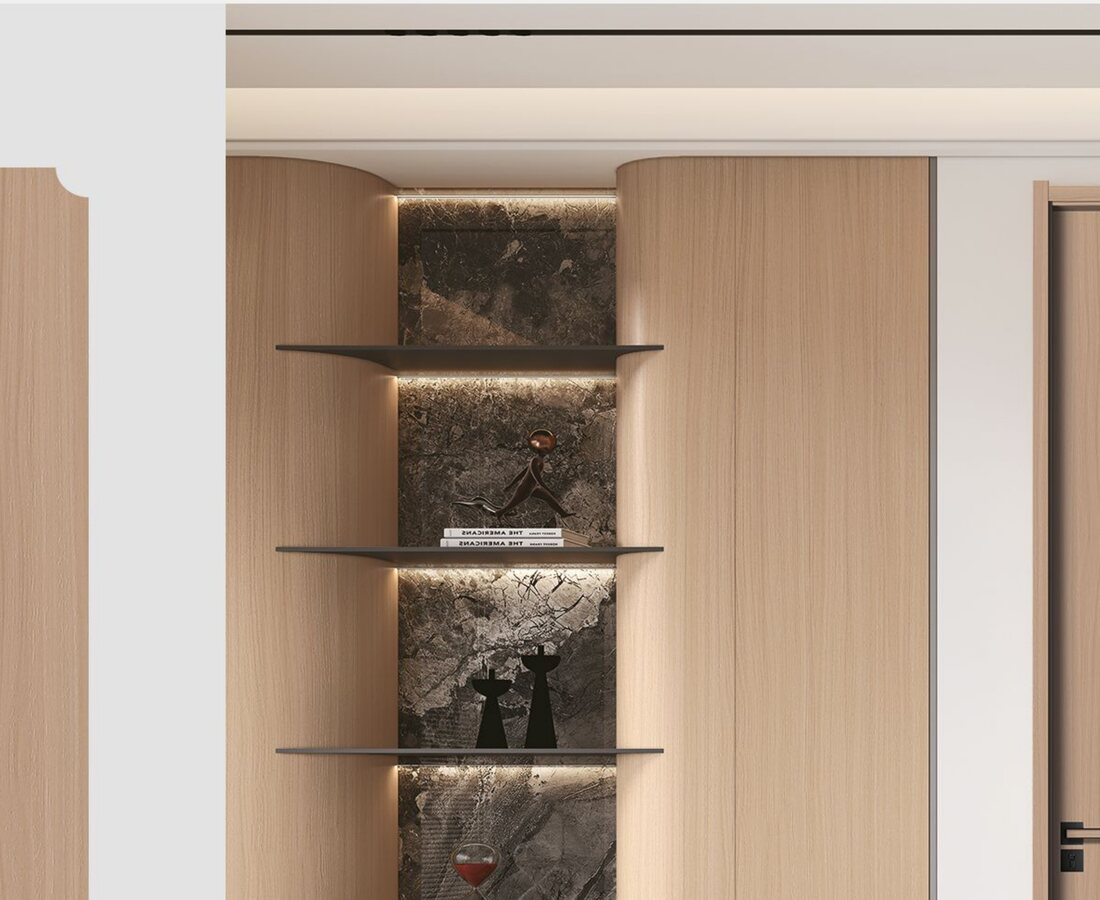
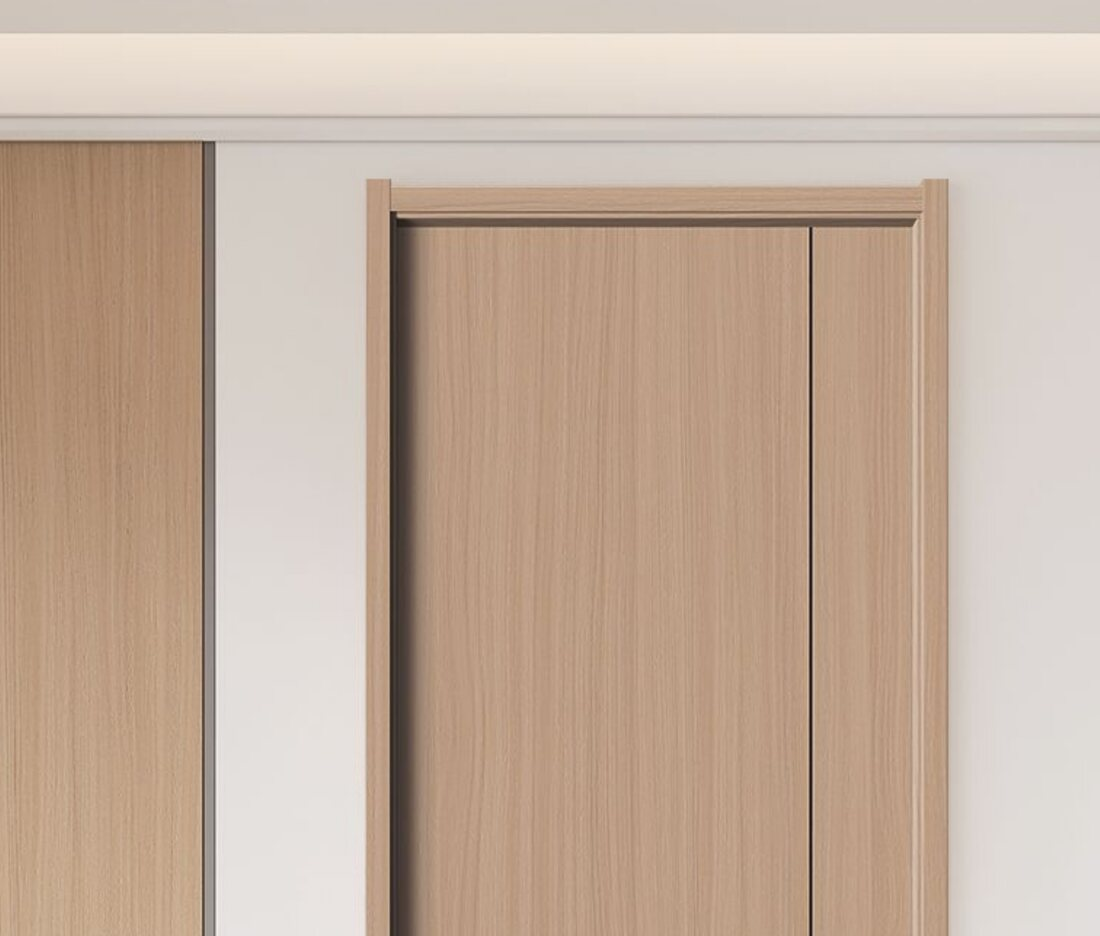
Interior doors: fold all finishes into one Collections grid; drop the separate premium section; re-crop Athens door-forward

diff --git a/interior-doors/index.html b/interior-doors/index.html
@@ -1,2 +1,2 @@
 <!DOCTYPE html><html lang="en"> <head><meta charset="UTF-8"><meta name="viewport" content="width=device-width, initial-scale=1"><title>Interior Doors — Luxova Home</title><meta name="description" content="Luxova Home — ready-to-assemble kitchen, bedroom storage and wardrobe cabinetry, made to your measure."><link rel="icon" href="/logo.jpg"><link rel="preconnect" href="https://fonts.googleapis.com"><link rel="preconnect" href="https://fonts.gstatic.com" crossorigin><link href="https://fonts.googleapis.com/css2?family=Fraunces:ital,opsz,wght@0,9..144,400;0,9..144,500;0,9..144,600;1,9..144,400&family=Hanken+Grotesk:wght@400;500;600;700&display=swap" rel="stylesheet"><link rel="stylesheet" href="/_astro/accessories.CYrSsuJB.css">
-<link rel="stylesheet" href="/_astro/interior-doors.Br0k4dYA.css"></head> <body> <nav class="nav"> <a class="brand" href="/"><img src="/logo-white.svg" alt="Luxova Home"></a> <div class="links"> <a class="" href="/c/kitchen-cabinets">Kitchen</a> <a class="" href="/c/bathroom-vanities">Bathroom Vanities</a> <a class="" href="/c/closets-wardrobes">Closet &amp; Wardrobes</a> <a class="" href="/door-styles">Cabinet Doors</a> <a class="" href="/interior-doors">Interior Doors</a> <a class="" href="/accessories">Accessories</a> <a class="" href="/member">Members</a> </div> <div class="actions"> <a class="btn-line" href="/contact">Get a price estimate</a> </div> </nav> <main> <section class="id-hero" data-astro-cid-d5el6o5c> <div class="wrap" data-astro-cid-d5el6o5c> <span class="eyebrow" data-astro-cid-d5el6o5c>Beyond the kitchen · room doors</span> <h1 data-astro-cid-d5el6o5c>Interior doors,<br data-astro-cid-d5el6o5c><em data-astro-cid-d5el6o5c>made to match.</em></h1> <p data-astro-cid-d5el6o5c>Modern flush room doors in a high-end PET wood finish — measured, made and fitted to your home, in colours and woodgrains that sit seamlessly with your cabinetry.</p> <div class="id-hero-cta" data-astro-cid-d5el6o5c> <a class="btn" href="/contact" data-astro-cid-d5el6o5c>Ask about interior doors <span class="arr" data-astro-cid-d5el6o5c>→</span></a> <a class="btn btn-ghost" href="#collections" data-astro-cid-d5el6o5c>See the collections <span class="arr" data-astro-cid-d5el6o5c>↓</span></a> </div> </div> </section>  <section class="wrap id-why" data-astro-cid-d5el6o5c> <div class="sec-head" data-astro-cid-d5el6o5c><div data-astro-cid-d5el6o5c><span class="eyebrow" data-astro-cid-d5el6o5c>Why the PET wood door</span><h2 data-astro-cid-d5el6o5c>Built to last, soft to live with</h2></div> <p class="head-note" data-astro-cid-d5el6o5c>A food-grade surface on a waterproof multilayer core — the look of timber, without the upkeep.</p> </div> <div class="why-grid" data-astro-cid-d5el6o5c> <div class="why-item" data-astro-cid-d5el6o5c> <span class="why-n" data-astro-cid-d5el6o5c>01</span> <h3 data-astro-cid-d5el6o5c>Food-grade PET finish</h3> <p data-astro-cid-d5el6o5c>A safe, environmentally friendly surface that is stable, acid- and corrosion-resistant, soft to the touch and wipes clean.</p> </div><div class="why-item" data-astro-cid-d5el6o5c> <span class="why-n" data-astro-cid-d5el6o5c>02</span> <h3 data-astro-cid-d5el6o5c>Multilayer waterproof core</h3> <p data-astro-cid-d5el6o5c>High-compression multilayer board that resists deformation and cracking, with superior waterproof performance.</p> </div><div class="why-item" data-astro-cid-d5el6o5c> <span class="why-n" data-astro-cid-d5el6o5c>03</span> <h3 data-astro-cid-d5el6o5c>Concealed soft hardware</h3> <p data-astro-cid-d5el6o5c>Hidden hinges and a quiet, soft-close action, with a flush concealed frame for clean 90° reveals.</p> </div><div class="why-item" data-astro-cid-d5el6o5c> <span class="why-n" data-astro-cid-d5el6o5c>04</span> <h3 data-astro-cid-d5el6o5c>Finishes that match</h3> <p data-astro-cid-d5el6o5c>Door colours and woodgrains chosen to sit seamlessly with your Luxova cabinetry and wardrobes.</p> </div> </div> </section>  <section id="collections" class="wrap id-coll" data-astro-cid-d5el6o5c> <div class="sec-head" data-astro-cid-d5el6o5c><div data-astro-cid-d5el6o5c><span class="eyebrow" data-astro-cid-d5el6o5c>Collections</span><h2 data-astro-cid-d5el6o5c>Our door finishes</h2></div> <p class="head-note" data-astro-cid-d5el6o5c>From bright white to deep woodgrain — each made to measure for your openings.</p> </div> <div class="coll-grid" data-astro-cid-d5el6o5c> <article class="coll-card" data-astro-cid-d5el6o5c> <div class="coll-img " data-astro-cid-d5el6o5c><img src="/interior-doors/crystal-white.jpg" alt="Crystal White interior door" loading="lazy" data-astro-cid-d5el6o5c></div> <div class="coll-meta" data-astro-cid-d5el6o5c> <h3 data-astro-cid-d5el6o5c>Crystal White</h3> <p data-astro-cid-d5el6o5c>A bright, flush white door with a slim recessed reveal — clean and contemporary in any room.</p> <p class="coll-fin" data-astro-cid-d5el6o5c>Matte white · slim-line</p> </div> </article><article class="coll-card" data-astro-cid-d5el6o5c> <div class="coll-img " data-astro-cid-d5el6o5c><img src="/interior-doors/baikal-white.jpg" alt="Baikal Frost interior door" loading="lazy" data-astro-cid-d5el6o5c></div> <div class="coll-meta" data-astro-cid-d5el6o5c> <h3 data-astro-cid-d5el6o5c>Baikal Frost</h3> <p data-astro-cid-d5el6o5c>Soft off-white with a single vertical groove — the quiet, minimal choice that suits everything.</p> <p class="coll-fin" data-astro-cid-d5el6o5c>Warm white · single reveal</p> </div> </article><article class="coll-card" data-astro-cid-d5el6o5c> <div class="coll-img " data-astro-cid-d5el6o5c><img src="/interior-doors/finland-cloud.jpg" alt="Finland Cloud interior door" loading="lazy" data-astro-cid-d5el6o5c></div> <div class="coll-meta" data-astro-cid-d5el6o5c> <h3 data-astro-cid-d5el6o5c>Finland Cloud</h3> <p data-astro-cid-d5el6o5c>A greige finish with a fine inlay line — calm, warm and easy to live with.</p> <p class="coll-fin" data-astro-cid-d5el6o5c>Greige · inlay detail</p> </div> </article><article class="coll-card" data-astro-cid-d5el6o5c> <div class="coll-img " data-astro-cid-d5el6o5c><img src="/interior-doors/cocoa-oak.jpg" alt="Cocoa Oak interior door" loading="lazy" data-astro-cid-d5el6o5c></div> <div class="coll-meta" data-astro-cid-d5el6o5c> <h3 data-astro-cid-d5el6o5c>Cocoa Oak</h3> <p data-astro-cid-d5el6o5c>Light oak woodgrain with a concealed handle — natural warmth without the upkeep of real timber.</p> <p class="coll-fin" data-astro-cid-d5el6o5c>Light oak woodgrain</p> </div> </article><article class="coll-card" data-astro-cid-d5el6o5c> <div class="coll-img " data-astro-cid-d5el6o5c><img src="/interior-doors/shangri-oak.jpg" alt="Shangri Oak interior door" loading="lazy" data-astro-cid-d5el6o5c></div> <div class="coll-meta" data-astro-cid-d5el6o5c> <h3 data-astro-cid-d5el6o5c>Shangri Oak</h3> <p data-astro-cid-d5el6o5c>A deeper, straight-grain oak that reads as furniture-grade and pairs beautifully with wardrobes.</p> <p class="coll-fin" data-astro-cid-d5el6o5c>Natural oak woodgrain</p> </div> </article><article class="coll-card" data-astro-cid-d5el6o5c> <div class="coll-img " data-astro-cid-d5el6o5c><img src="/interior-doors/morandi-grey.jpg" alt="Morandi Grey interior door" loading="lazy" data-astro-cid-d5el6o5c></div> <div class="coll-meta" data-astro-cid-d5el6o5c> <h3 data-astro-cid-d5el6o5c>Morandi Grey</h3> <p data-astro-cid-d5el6o5c>A muted grey-brown woodgrain — moody, modern and right at home with darker interiors.</p> <p class="coll-fin" data-astro-cid-d5el6o5c>Grey-brown woodgrain</p> </div> </article><article class="coll-card" data-astro-cid-d5el6o5c> <div class="coll-img is-cutout" data-astro-cid-d5el6o5c><img src="/interior-doors/arctic-iceberg.jpg" alt="Arctic Iceberg interior door" loading="lazy" data-astro-cid-d5el6o5c></div> <div class="coll-meta" data-astro-cid-d5el6o5c> <h3 data-astro-cid-d5el6o5c>Arctic Iceberg</h3> <p data-astro-cid-d5el6o5c>A crisp matte white with twin vertical reveals — bright and gallery-clean.</p> <p class="coll-fin" data-astro-cid-d5el6o5c>Crisp white · twin reveal</p> </div> </article><article class="coll-card" data-astro-cid-d5el6o5c> <div class="coll-img is-cutout" data-astro-cid-d5el6o5c><img src="/interior-doors/ayers-rock.jpg" alt="Ayers Rock interior door" loading="lazy" data-astro-cid-d5el6o5c></div> <div class="coll-meta" data-astro-cid-d5el6o5c> <h3 data-astro-cid-d5el6o5c>Ayers Rock</h3> <p data-astro-cid-d5el6o5c>A warm mid-grey with a carved black line — modern with a little edge.</p> <p class="coll-fin" data-astro-cid-d5el6o5c>Warm grey · carved line</p> </div> </article> </div> </section>  <section class="id-premium" data-astro-cid-d5el6o5c> <div class="wrap" data-astro-cid-d5el6o5c> <div class="sec-head sec-head--light" data-astro-cid-d5el6o5c><div data-astro-cid-d5el6o5c><span class="eyebrow" data-astro-cid-d5el6o5c>Premium series</span><h2 data-astro-cid-d5el6o5c>The all-wood multilayer collection</h2></div> <p class="head-note" data-astro-cid-d5el6o5c>Richer finishes and decorative craft, for a door that makes a statement.</p> </div> <div class="prem-grid" data-astro-cid-d5el6o5c> <article class="prem-card" data-astro-cid-d5el6o5c> <div class="prem-img" data-astro-cid-d5el6o5c><img src="/interior-doors/moonlight-white.jpg" alt="Moonlight White interior door" loading="lazy" data-astro-cid-d5el6o5c></div> <div class="prem-meta" data-astro-cid-d5el6o5c> <h3 data-astro-cid-d5el6o5c>Moonlight White</h3> <p data-astro-cid-d5el6o5c>Crisp matte white with a fine mirror-black inlay line tracing the panel.</p> <p class="prem-fin" data-astro-cid-d5el6o5c>White · mirror-black inlay</p> </div> </article><article class="prem-card" data-astro-cid-d5el6o5c> <div class="prem-img" data-astro-cid-d5el6o5c><img src="/interior-doors/athens.jpg" alt="Athens Old City interior door" loading="lazy" data-astro-cid-d5el6o5c></div> <div class="prem-meta" data-astro-cid-d5el6o5c> <h3 data-astro-cid-d5el6o5c>Athens Old City</h3> <p data-astro-cid-d5el6o5c>Warm oak with precision-carved relief detail and integrated lit shelving.</p> <p class="prem-fin" data-astro-cid-d5el6o5c>Warm oak · carved relief</p> </div> </article><article class="prem-card" data-astro-cid-d5el6o5c> <div class="prem-img" data-astro-cid-d5el6o5c><img src="/interior-doors/barcelona.jpg" alt="Barcelona interior door" loading="lazy" data-astro-cid-d5el6o5c></div> <div class="prem-meta" data-astro-cid-d5el6o5c> <h3 data-astro-cid-d5el6o5c>Barcelona</h3> <p data-astro-cid-d5el6o5c>A taupe woodgrain paired with a mirror-stone feature panel and gold tracing.</p> <p class="prem-fin" data-astro-cid-d5el6o5c>Taupe woodgrain · gold trace</p> </div> </article><article class="prem-card" data-astro-cid-d5el6o5c> <div class="prem-img" data-astro-cid-d5el6o5c><img src="/interior-doors/left-bank.jpg" alt="Left Bank Starlight interior door" loading="lazy" data-astro-cid-d5el6o5c></div> <div class="prem-meta" data-astro-cid-d5el6o5c> <h3 data-astro-cid-d5el6o5c>Left Bank Starlight</h3> <p data-astro-cid-d5el6o5c>A deep walnut grain that frames the room with a quiet, furniture-grade warmth.</p> <p class="prem-fin" data-astro-cid-d5el6o5c>Walnut woodgrain</p> </div> </article> </div> <div class="prem-craft" data-astro-cid-d5el6o5c> <h3 class="prem-sub" data-astro-cid-d5el6o5c>Decorative craft</h3> <dl class="prem-list" data-astro-cid-d5el6o5c><dt data-astro-cid-d5el6o5c>UU fine carving</dt><dd data-astro-cid-d5el6o5c>Precision relief lines carved into the door face.</dd><dt data-astro-cid-d5el6o5c>Mirror inlay</dt><dd data-astro-cid-d5el6o5c>Black or gold mirror strips set flush into the panel.</dd><dt data-astro-cid-d5el6o5c>Gold tracing</dt><dd data-astro-cid-d5el6o5c>Fine gilded detail lines along the design.</dd><dt data-astro-cid-d5el6o5c>All-wood multilayer core</dt><dd data-astro-cid-d5el6o5c>A solid multilayer board — flat, stable and waterproof.</dd></dl> </div> </div> </section>  <section class="wrap id-config" data-astro-cid-d5el6o5c> <div class="sec-head" data-astro-cid-d5el6o5c><div data-astro-cid-d5el6o5c><span class="eyebrow" data-astro-cid-d5el6o5c>Options &amp; profiles</span><h2 data-astro-cid-d5el6o5c>Configured to the opening</h2></div> <p class="head-note" data-astro-cid-d5el6o5c>However the room is laid out, we can make the door to suit.</p> </div> <div class="cfg-grid" data-astro-cid-d5el6o5c> <div class="cfg-card" data-astro-cid-d5el6o5c><h3 data-astro-cid-d5el6o5c>Flush swing</h3><p data-astro-cid-d5el6o5c>The standard hinged door, with clean 90° reveals.</p></div><div class="cfg-card" data-astro-cid-d5el6o5c><h3 data-astro-cid-d5el6o5c>Double / French</h3><p data-astro-cid-d5el6o5c>A matched pair for wide openings and walk-throughs.</p></div><div class="cfg-card" data-astro-cid-d5el6o5c><h3 data-astro-cid-d5el6o5c>Sliding &amp; barn</h3><p data-astro-cid-d5el6o5c>Wall-mounted sliders that save floor space.</p></div><div class="cfg-card" data-astro-cid-d5el6o5c><h3 data-astro-cid-d5el6o5c>Pocket door</h3><p data-astro-cid-d5el6o5c>Slides away into the wall for a flush, space-saving finish.</p></div><div class="cfg-card" data-astro-cid-d5el6o5c><h3 data-astro-cid-d5el6o5c>Arch-top profile</h3><p data-astro-cid-d5el6o5c>A softly curved head for a more characterful opening.</p></div><div class="cfg-card" data-astro-cid-d5el6o5c><h3 data-astro-cid-d5el6o5c>Glass insert</h3><p data-astro-cid-d5el6o5c>A framed glass panel to borrow light between rooms.</p></div> </div> </section>  <section class="process" data-astro-cid-d5el6o5c> <div class="wrap" data-astro-cid-d5el6o5c> <div class="sec-head sec-head--light" data-astro-cid-d5el6o5c><div data-astro-cid-d5el6o5c><span class="eyebrow" data-astro-cid-d5el6o5c>How it works</span><h2 data-astro-cid-d5el6o5c>Measured, made &amp; fitted</h2></div> <a href="/contact" data-astro-cid-d5el6o5c>Start your project</a> </div> <ol class="proc-track" data-astro-cid-d5el6o5c> <li class="proc" data-astro-cid-d5el6o5c><span class="proc-n" data-astro-cid-d5el6o5c>01</span><h3 data-astro-cid-d5el6o5c>Measure</h3><p data-astro-cid-d5el6o5c>We measure every opening on site for a precise, gap-free fit.</p></li><li class="proc" data-astro-cid-d5el6o5c><span class="proc-n" data-astro-cid-d5el6o5c>02</span><h3 data-astro-cid-d5el6o5c>Make</h3><p data-astro-cid-d5el6o5c>Doors and concealed frames are built to your sizes and finish.</p></li><li class="proc" data-astro-cid-d5el6o5c><span class="proc-n" data-astro-cid-d5el6o5c>03</span><h3 data-astro-cid-d5el6o5c>Fit</h3><p data-astro-cid-d5el6o5c>Professional installation with soft, quiet hardware and a final check.</p></li> </ol> </div> </section>  <section class="id-cta" data-astro-cid-d5el6o5c> <div class="wrap" data-astro-cid-d5el6o5c> <h2 data-astro-cid-d5el6o5c>Doors and cabinetry, from one supplier.</h2> <p data-astro-cid-d5el6o5c>Order your interior doors alongside your kitchen, vanities and wardrobes — measured together, finished to match and fitted by one team. Tell us your project and we'll quote it as one.</p> <a class="btn" href="/contact" data-astro-cid-d5el6o5c>Get a free quote <span class="arr" data-astro-cid-d5el6o5c>→</span></a> </div> </section>  </main> <footer class="site-footer"> <div class="cols"> <div> <img class="logo" src="/logo-white.svg" alt="Luxova Home"> <p class="blurb">Custom &amp; ready-to-assemble cabinetry — kitchens, bathroom vanities, closets &amp; wardrobes. Made in the USA, with warehouses across the country.</p> <p class="blurb"><a href="mailto:info@luxovahome.com">info@luxovahome.com</a><br>U.S.-based · warehouses nationwide</p> </div> <div> <h4>Shop</h4> <a href="/c/kitchen-cabinets">Kitchen Cabinets</a> <a href="/c/bathroom-vanities">Bathroom Vanities</a> <a href="/c/closets-wardrobes">Closet &amp; Wardrobes</a> <a href="/door-styles">Cabinet Door Styles</a> <a href="/interior-doors">Interior Doors</a> <a href="/accessories">Accessories</a> </div> <div> <h4>Help</h4> <a href="/contact">Get a free design</a> <a href="/contact">Order door samples</a> <a href="/member">Become a member</a> <a href="/luxova-catalog.pdf" download>Download catalog</a> <a href="/contact">Contact us</a> </div> <div> <h4>Policies</h4> <a href="/policies#shipping">Shipping &amp; Returns</a> <a href="/policies#warranty">Warranty</a> <a href="/policies#privacy">Privacy</a> </div> </div> <div class="copy"><span>© 2026 Luxova Home</span><span>Ready-to-assemble cabinetry, made to measure.</span></div> </footer> </body></html>
+<link rel="stylesheet" href="/_astro/interior-doors.BqZQjv2A.css"></head> <body> <nav class="nav"> <a class="brand" href="/"><img src="/logo-white.svg" alt="Luxova Home"></a> <div class="links"> <a class="" href="/c/kitchen-cabinets">Kitchen</a> <a class="" href="/c/bathroom-vanities">Bathroom Vanities</a> <a class="" href="/c/closets-wardrobes">Closet &amp; Wardrobes</a> <a class="" href="/door-styles">Cabinet Doors</a> <a class="" href="/interior-doors">Interior Doors</a> <a class="" href="/accessories">Accessories</a> <a class="" href="/member">Members</a> </div> <div class="actions"> <a class="btn-line" href="/contact">Get a price estimate</a> </div> </nav> <main> <section class="id-hero" data-astro-cid-d5el6o5c> <div class="wrap" data-astro-cid-d5el6o5c> <span class="eyebrow" data-astro-cid-d5el6o5c>Beyond the kitchen · room doors</span> <h1 data-astro-cid-d5el6o5c>Interior doors,<br data-astro-cid-d5el6o5c><em data-astro-cid-d5el6o5c>made to match.</em></h1> <p data-astro-cid-d5el6o5c>Modern flush room doors in a high-end PET wood finish — measured, made and fitted to your home, in colours and woodgrains that sit seamlessly with your cabinetry.</p> <div class="id-hero-cta" data-astro-cid-d5el6o5c> <a class="btn" href="/contact" data-astro-cid-d5el6o5c>Ask about interior doors <span class="arr" data-astro-cid-d5el6o5c>→</span></a> <a class="btn btn-ghost" href="#collections" data-astro-cid-d5el6o5c>See the collections <span class="arr" data-astro-cid-d5el6o5c>↓</span></a> </div> </div> </section>  <section class="wrap id-why" data-astro-cid-d5el6o5c> <div class="sec-head" data-astro-cid-d5el6o5c><div data-astro-cid-d5el6o5c><span class="eyebrow" data-astro-cid-d5el6o5c>Why the PET wood door</span><h2 data-astro-cid-d5el6o5c>Built to last, soft to live with</h2></div> <p class="head-note" data-astro-cid-d5el6o5c>A food-grade surface on a waterproof multilayer core — the look of timber, without the upkeep.</p> </div> <div class="why-grid" data-astro-cid-d5el6o5c> <div class="why-item" data-astro-cid-d5el6o5c> <span class="why-n" data-astro-cid-d5el6o5c>01</span> <h3 data-astro-cid-d5el6o5c>Food-grade PET finish</h3> <p data-astro-cid-d5el6o5c>A safe, environmentally friendly surface that is stable, acid- and corrosion-resistant, soft to the touch and wipes clean.</p> </div><div class="why-item" data-astro-cid-d5el6o5c> <span class="why-n" data-astro-cid-d5el6o5c>02</span> <h3 data-astro-cid-d5el6o5c>Multilayer waterproof core</h3> <p data-astro-cid-d5el6o5c>High-compression multilayer board that resists deformation and cracking, with superior waterproof performance.</p> </div><div class="why-item" data-astro-cid-d5el6o5c> <span class="why-n" data-astro-cid-d5el6o5c>03</span> <h3 data-astro-cid-d5el6o5c>Concealed soft hardware</h3> <p data-astro-cid-d5el6o5c>Hidden hinges and a quiet, soft-close action, with a flush concealed frame for clean 90° reveals.</p> </div><div class="why-item" data-astro-cid-d5el6o5c> <span class="why-n" data-astro-cid-d5el6o5c>04</span> <h3 data-astro-cid-d5el6o5c>Finishes that match</h3> <p data-astro-cid-d5el6o5c>Door colours and woodgrains chosen to sit seamlessly with your Luxova cabinetry and wardrobes.</p> </div> </div> </section>  <section id="collections" class="wrap id-coll" data-astro-cid-d5el6o5c> <div class="sec-head" data-astro-cid-d5el6o5c><div data-astro-cid-d5el6o5c><span class="eyebrow" data-astro-cid-d5el6o5c>Collections</span><h2 data-astro-cid-d5el6o5c>Our door finishes</h2></div> <p class="head-note" data-astro-cid-d5el6o5c>From bright white to deep woodgrain — each made to measure for your openings.</p> </div> <div class="coll-grid" data-astro-cid-d5el6o5c> <article class="coll-card" data-astro-cid-d5el6o5c> <div class="coll-img " data-astro-cid-d5el6o5c><img src="/interior-doors/crystal-white.jpg" alt="Crystal White interior door" loading="lazy" data-astro-cid-d5el6o5c></div> <div class="coll-meta" data-astro-cid-d5el6o5c> <h3 data-astro-cid-d5el6o5c>Crystal White</h3> <p data-astro-cid-d5el6o5c>A bright, flush white door with a slim recessed reveal — clean and contemporary in any room.</p> <p class="coll-fin" data-astro-cid-d5el6o5c>Matte white · slim-line</p> </div> </article><article class="coll-card" data-astro-cid-d5el6o5c> <div class="coll-img " data-astro-cid-d5el6o5c><img src="/interior-doors/baikal-white.jpg" alt="Baikal Frost interior door" loading="lazy" data-astro-cid-d5el6o5c></div> <div class="coll-meta" data-astro-cid-d5el6o5c> <h3 data-astro-cid-d5el6o5c>Baikal Frost</h3> <p data-astro-cid-d5el6o5c>Soft off-white with a single vertical groove — the quiet, minimal choice that suits everything.</p> <p class="coll-fin" data-astro-cid-d5el6o5c>Warm white · single reveal</p> </div> </article><article class="coll-card" data-astro-cid-d5el6o5c> <div class="coll-img " data-astro-cid-d5el6o5c><img src="/interior-doors/finland-cloud.jpg" alt="Finland Cloud interior door" loading="lazy" data-astro-cid-d5el6o5c></div> <div class="coll-meta" data-astro-cid-d5el6o5c> <h3 data-astro-cid-d5el6o5c>Finland Cloud</h3> <p data-astro-cid-d5el6o5c>A greige finish with a fine inlay line — calm, warm and easy to live with.</p> <p class="coll-fin" data-astro-cid-d5el6o5c>Greige · inlay detail</p> </div> </article><article class="coll-card" data-astro-cid-d5el6o5c> <div class="coll-img " data-astro-cid-d5el6o5c><img src="/interior-doors/cocoa-oak.jpg" alt="Cocoa Oak interior door" loading="lazy" data-astro-cid-d5el6o5c></div> <div class="coll-meta" data-astro-cid-d5el6o5c> <h3 data-astro-cid-d5el6o5c>Cocoa Oak</h3> <p data-astro-cid-d5el6o5c>Light oak woodgrain with a concealed handle — natural warmth without the upkeep of real timber.</p> <p class="coll-fin" data-astro-cid-d5el6o5c>Light oak woodgrain</p> </div> </article><article class="coll-card" data-astro-cid-d5el6o5c> <div class="coll-img " data-astro-cid-d5el6o5c><img src="/interior-doors/shangri-oak.jpg" alt="Shangri Oak interior door" loading="lazy" data-astro-cid-d5el6o5c></div> <div class="coll-meta" data-astro-cid-d5el6o5c> <h3 data-astro-cid-d5el6o5c>Shangri Oak</h3> <p data-astro-cid-d5el6o5c>A deeper, straight-grain oak that reads as furniture-grade and pairs beautifully with wardrobes.</p> <p class="coll-fin" data-astro-cid-d5el6o5c>Natural oak woodgrain</p> </div> </article><article class="coll-card" data-astro-cid-d5el6o5c> <div class="coll-img " data-astro-cid-d5el6o5c><img src="/interior-doors/morandi-grey.jpg" alt="Morandi Grey interior door" loading="lazy" data-astro-cid-d5el6o5c></div> <div class="coll-meta" data-astro-cid-d5el6o5c> <h3 data-astro-cid-d5el6o5c>Morandi Grey</h3> <p data-astro-cid-d5el6o5c>A muted grey-brown woodgrain — moody, modern and right at home with darker interiors.</p> <p class="coll-fin" data-astro-cid-d5el6o5c>Grey-brown woodgrain</p> </div> </article><article class="coll-card" data-astro-cid-d5el6o5c> <div class="coll-img " data-astro-cid-d5el6o5c><img src="/interior-doors/moonlight-white.jpg" alt="Moonlight White interior door" loading="lazy" data-astro-cid-d5el6o5c></div> <div class="coll-meta" data-astro-cid-d5el6o5c> <h3 data-astro-cid-d5el6o5c>Moonlight White</h3> <p data-astro-cid-d5el6o5c>Crisp matte white traced by a fine mirror-black inlay — an all-wood multilayer door built to be looked at.</p> <p class="coll-fin" data-astro-cid-d5el6o5c>White · mirror-black inlay</p> </div> </article><article class="coll-card" data-astro-cid-d5el6o5c> <div class="coll-img " data-astro-cid-d5el6o5c><img src="/interior-doors/athens.jpg" alt="Athens Old City interior door" loading="lazy" data-astro-cid-d5el6o5c></div> <div class="coll-meta" data-astro-cid-d5el6o5c> <h3 data-astro-cid-d5el6o5c>Athens Old City</h3> <p data-astro-cid-d5el6o5c>Warm oak with precision-carved relief detail, on a solid all-wood multilayer core.</p> <p class="coll-fin" data-astro-cid-d5el6o5c>Warm oak · carved relief</p> </div> </article><article class="coll-card" data-astro-cid-d5el6o5c> <div class="coll-img " data-astro-cid-d5el6o5c><img src="/interior-doors/barcelona.jpg" alt="Barcelona interior door" loading="lazy" data-astro-cid-d5el6o5c></div> <div class="coll-meta" data-astro-cid-d5el6o5c> <h3 data-astro-cid-d5el6o5c>Barcelona</h3> <p data-astro-cid-d5el6o5c>Taupe woodgrain with a mirror-stone feature panel and fine gold tracing — a true statement.</p> <p class="coll-fin" data-astro-cid-d5el6o5c>Taupe · gold tracing</p> </div> </article><article class="coll-card" data-astro-cid-d5el6o5c> <div class="coll-img " data-astro-cid-d5el6o5c><img src="/interior-doors/left-bank.jpg" alt="Left Bank Starlight interior door" loading="lazy" data-astro-cid-d5el6o5c></div> <div class="coll-meta" data-astro-cid-d5el6o5c> <h3 data-astro-cid-d5el6o5c>Left Bank Starlight</h3> <p data-astro-cid-d5el6o5c>Deep walnut grain with a full-height concealed frame — quiet, furniture-grade warmth.</p> <p class="coll-fin" data-astro-cid-d5el6o5c>Walnut woodgrain</p> </div> </article><article class="coll-card" data-astro-cid-d5el6o5c> <div class="coll-img is-cutout" data-astro-cid-d5el6o5c><img src="/interior-doors/arctic-iceberg.jpg" alt="Arctic Iceberg interior door" loading="lazy" data-astro-cid-d5el6o5c></div> <div class="coll-meta" data-astro-cid-d5el6o5c> <h3 data-astro-cid-d5el6o5c>Arctic Iceberg</h3> <p data-astro-cid-d5el6o5c>A crisp matte white with twin vertical reveals — bright and gallery-clean.</p> <p class="coll-fin" data-astro-cid-d5el6o5c>Crisp white · twin reveal</p> </div> </article><article class="coll-card" data-astro-cid-d5el6o5c> <div class="coll-img is-cutout" data-astro-cid-d5el6o5c><img src="/interior-doors/ayers-rock.jpg" alt="Ayers Rock interior door" loading="lazy" data-astro-cid-d5el6o5c></div> <div class="coll-meta" data-astro-cid-d5el6o5c> <h3 data-astro-cid-d5el6o5c>Ayers Rock</h3> <p data-astro-cid-d5el6o5c>A warm mid-grey with a carved black line — modern with a little edge.</p> <p class="coll-fin" data-astro-cid-d5el6o5c>Warm grey · carved line</p> </div> </article> </div> </section>  <section class="wrap id-config" data-astro-cid-d5el6o5c> <div class="sec-head" data-astro-cid-d5el6o5c><div data-astro-cid-d5el6o5c><span class="eyebrow" data-astro-cid-d5el6o5c>Options &amp; profiles</span><h2 data-astro-cid-d5el6o5c>Configured to the opening</h2></div> <p class="head-note" data-astro-cid-d5el6o5c>However the room is laid out, we can make the door to suit.</p> </div> <div class="cfg-grid" data-astro-cid-d5el6o5c> <div class="cfg-card" data-astro-cid-d5el6o5c><h3 data-astro-cid-d5el6o5c>Flush swing</h3><p data-astro-cid-d5el6o5c>The standard hinged door, with clean 90° reveals.</p></div><div class="cfg-card" data-astro-cid-d5el6o5c><h3 data-astro-cid-d5el6o5c>Double / French</h3><p data-astro-cid-d5el6o5c>A matched pair for wide openings and walk-throughs.</p></div><div class="cfg-card" data-astro-cid-d5el6o5c><h3 data-astro-cid-d5el6o5c>Sliding &amp; barn</h3><p data-astro-cid-d5el6o5c>Wall-mounted sliders that save floor space.</p></div><div class="cfg-card" data-astro-cid-d5el6o5c><h3 data-astro-cid-d5el6o5c>Pocket door</h3><p data-astro-cid-d5el6o5c>Slides away into the wall for a flush, space-saving finish.</p></div><div class="cfg-card" data-astro-cid-d5el6o5c><h3 data-astro-cid-d5el6o5c>Arch-top profile</h3><p data-astro-cid-d5el6o5c>A softly curved head for a more characterful opening.</p></div><div class="cfg-card" data-astro-cid-d5el6o5c><h3 data-astro-cid-d5el6o5c>Glass insert</h3><p data-astro-cid-d5el6o5c>A framed glass panel to borrow light between rooms.</p></div> </div> </section>  <section class="process" data-astro-cid-d5el6o5c> <div class="wrap" data-astro-cid-d5el6o5c> <div class="sec-head sec-head--light" data-astro-cid-d5el6o5c><div data-astro-cid-d5el6o5c><span class="eyebrow" data-astro-cid-d5el6o5c>How it works</span><h2 data-astro-cid-d5el6o5c>Measured, made &amp; fitted</h2></div> <a href="/contact" data-astro-cid-d5el6o5c>Start your project</a> </div> <ol class="proc-track" data-astro-cid-d5el6o5c> <li class="proc" data-astro-cid-d5el6o5c><span class="proc-n" data-astro-cid-d5el6o5c>01</span><h3 data-astro-cid-d5el6o5c>Measure</h3><p data-astro-cid-d5el6o5c>We measure every opening on site for a precise, gap-free fit.</p></li><li class="proc" data-astro-cid-d5el6o5c><span class="proc-n" data-astro-cid-d5el6o5c>02</span><h3 data-astro-cid-d5el6o5c>Make</h3><p data-astro-cid-d5el6o5c>Doors and concealed frames are built to your sizes and finish.</p></li><li class="proc" data-astro-cid-d5el6o5c><span class="proc-n" data-astro-cid-d5el6o5c>03</span><h3 data-astro-cid-d5el6o5c>Fit</h3><p data-astro-cid-d5el6o5c>Professional installation with soft, quiet hardware and a final check.</p></li> </ol> </div> </section>  <section class="id-cta" data-astro-cid-d5el6o5c> <div class="wrap" data-astro-cid-d5el6o5c> <h2 data-astro-cid-d5el6o5c>Doors and cabinetry, from one supplier.</h2> <p data-astro-cid-d5el6o5c>Order your interior doors alongside your kitchen, vanities and wardrobes — measured together, finished to match and fitted by one team. Tell us your project and we'll quote it as one.</p> <a class="btn" href="/contact" data-astro-cid-d5el6o5c>Get a free quote <span class="arr" data-astro-cid-d5el6o5c>→</span></a> </div> </section>  </main> <footer class="site-footer"> <div class="cols"> <div> <img class="logo" src="/logo-white.svg" alt="Luxova Home"> <p class="blurb">Custom &amp; ready-to-assemble cabinetry — kitchens, bathroom vanities, closets &amp; wardrobes. Made in the USA, with warehouses across the country.</p> <p class="blurb"><a href="mailto:info@luxovahome.com">info@luxovahome.com</a><br>U.S.-based · warehouses nationwide</p> </div> <div> <h4>Shop</h4> <a href="/c/kitchen-cabinets">Kitchen Cabinets</a> <a href="/c/bathroom-vanities">Bathroom Vanities</a> <a href="/c/closets-wardrobes">Closet &amp; Wardrobes</a> <a href="/door-styles">Cabinet Door Styles</a> <a href="/interior-doors">Interior Doors</a> <a href="/accessories">Accessories</a> </div> <div> <h4>Help</h4> <a href="/contact">Get a free design</a> <a href="/contact">Order door samples</a> <a href="/member">Become a member</a> <a href="/luxova-catalog.pdf" download>Download catalog</a> <a href="/contact">Contact us</a> </div> <div> <h4>Policies</h4> <a href="/policies#shipping">Shipping &amp; Returns</a> <a href="/policies#warranty">Warranty</a> <a href="/policies#privacy">Privacy</a> </div> </div> <div class="copy"><span>© 2026 Luxova Home</span><span>Ready-to-assemble cabinetry, made to measure.</span></div> </footer> </body></html>

diff --git a/_astro/interior-doors.BqZQjv2A.css b/_astro/interior-doors.BqZQjv2A.css
@@ -1,0 +1,1 @@
+.eyebrow[data-astro-cid-d5el6o5c]{display:block}.id-hero[data-astro-cid-d5el6o5c]{background:var(--panel);border-bottom:1px solid var(--line);padding:clamp(56px,8vw,104px) 0 clamp(48px,6vw,80px)}.id-hero[data-astro-cid-d5el6o5c] .eyebrow[data-astro-cid-d5el6o5c]{margin-bottom:18px}.id-hero[data-astro-cid-d5el6o5c] h1[data-astro-cid-d5el6o5c]{font-size:clamp(40px,6.5vw,86px);line-height:.98}.id-hero[data-astro-cid-d5el6o5c] h1[data-astro-cid-d5el6o5c] em[data-astro-cid-d5el6o5c]{font-style:italic;color:var(--gold)}.id-hero[data-astro-cid-d5el6o5c] p[data-astro-cid-d5el6o5c]{color:var(--soft);font-size:clamp(17px,1.5vw,20px);max-width:56ch;margin:26px 0 0}.id-hero-cta[data-astro-cid-d5el6o5c]{display:flex;flex-wrap:wrap;gap:14px;margin-top:34px}section[data-astro-cid-d5el6o5c]{scroll-margin-top:80px}.id-why[data-astro-cid-d5el6o5c],.id-coll[data-astro-cid-d5el6o5c]{padding-top:clamp(56px,7vw,96px)}.head-note[data-astro-cid-d5el6o5c]{color:var(--soft);font-size:15px;max-width:34ch;margin:0}.sec-head--light[data-astro-cid-d5el6o5c] .head-note[data-astro-cid-d5el6o5c]{color:#9fb0c0}.why-grid[data-astro-cid-d5el6o5c]{display:grid;grid-template-columns:repeat(4,1fr);gap:1px;background:var(--line);border:1px solid var(--line)}.why-item[data-astro-cid-d5el6o5c]{background:#fff;padding:30px 26px 34px}.why-n[data-astro-cid-d5el6o5c]{font-family:var(--serif);font-size:15px;color:var(--gold);letter-spacing:.08em}.why-item[data-astro-cid-d5el6o5c] h3[data-astro-cid-d5el6o5c]{font-family:var(--serif);font-weight:400;font-size:21px;margin:12px 0 10px;letter-spacing:-.01em}.why-item[data-astro-cid-d5el6o5c] p[data-astro-cid-d5el6o5c]{color:var(--soft);font-size:14.5px;line-height:1.55;margin:0}@media (max-width:900px){.why-grid[data-astro-cid-d5el6o5c]{grid-template-columns:1fr 1fr}}@media (max-width:520px){.why-grid[data-astro-cid-d5el6o5c]{grid-template-columns:1fr}}.coll-grid[data-astro-cid-d5el6o5c]{display:grid;grid-template-columns:repeat(3,1fr);gap:36px 28px}.coll-img[data-astro-cid-d5el6o5c]{aspect-ratio:4/3.4;background:var(--panel);border:1px solid var(--line);overflow:hidden;box-shadow:0 16px 38px -26px #0e274073}.coll-img[data-astro-cid-d5el6o5c] img[data-astro-cid-d5el6o5c]{width:100%;height:100%;object-fit:cover;display:block;transition:transform .9s cubic-bezier(.2,.7,.2,1)}.coll-card[data-astro-cid-d5el6o5c]:hover .coll-img[data-astro-cid-d5el6o5c] img[data-astro-cid-d5el6o5c]{transform:scale(1.04)}.coll-img[data-astro-cid-d5el6o5c].is-cutout{background:#eef0f1}.coll-img[data-astro-cid-d5el6o5c].is-cutout img[data-astro-cid-d5el6o5c]{object-fit:contain}.coll-meta[data-astro-cid-d5el6o5c] h3[data-astro-cid-d5el6o5c]{font-family:var(--serif);font-weight:400;font-size:24px;margin:18px 0 0;letter-spacing:-.01em}.coll-meta[data-astro-cid-d5el6o5c] p[data-astro-cid-d5el6o5c]{color:var(--soft);font-size:14.5px;line-height:1.55;margin:8px 0 0}.coll-fin[data-astro-cid-d5el6o5c]{color:var(--gold);font-size:12.5px;letter-spacing:.02em;text-transform:uppercase;font-weight:600}@media (max-width:860px){.coll-grid[data-astro-cid-d5el6o5c]{grid-template-columns:1fr 1fr}}@media (max-width:560px){.coll-grid[data-astro-cid-d5el6o5c]{grid-template-columns:1fr}}.id-config[data-astro-cid-d5el6o5c]{padding-top:clamp(52px,6vw,84px)}.cfg-grid[data-astro-cid-d5el6o5c]{display:grid;grid-template-columns:repeat(3,1fr);gap:1px;background:var(--line);border:1px solid var(--line)}.cfg-card[data-astro-cid-d5el6o5c]{background:#fff;padding:26px 24px 28px}.cfg-card[data-astro-cid-d5el6o5c] h3[data-astro-cid-d5el6o5c]{font-family:var(--serif);font-weight:400;font-size:20px;margin:0 0 8px}.cfg-card[data-astro-cid-d5el6o5c] p[data-astro-cid-d5el6o5c]{color:var(--soft);font-size:14px;line-height:1.55;margin:0}@media (max-width:760px){.cfg-grid[data-astro-cid-d5el6o5c]{grid-template-columns:1fr 1fr}}@media (max-width:460px){.cfg-grid[data-astro-cid-d5el6o5c]{grid-template-columns:1fr}}.process[data-astro-cid-d5el6o5c]{margin-top:clamp(56px,7vw,96px);background:var(--navy);color:#cdd7e1;padding:clamp(56px,7vw,92px) 0}.process[data-astro-cid-d5el6o5c] h2[data-astro-cid-d5el6o5c]{color:#fff}.process[data-astro-cid-d5el6o5c] .eyebrow[data-astro-cid-d5el6o5c]{color:var(--gold-lt);display:block;margin-bottom:10px}.process[data-astro-cid-d5el6o5c] .sec-head[data-astro-cid-d5el6o5c] a[data-astro-cid-d5el6o5c]{color:var(--gold-lt);border-bottom:1px solid var(--gold-lt)}.proc-track[data-astro-cid-d5el6o5c]{list-style:none;margin:0;padding:0;display:grid;grid-template-columns:repeat(3,1fr);gap:0}.proc[data-astro-cid-d5el6o5c]{padding:0 28px;border-left:1px solid rgba(255,255,255,.14)}.proc[data-astro-cid-d5el6o5c]:first-child{border-left:0;padding-left:0}.proc-n[data-astro-cid-d5el6o5c]{font-family:var(--serif);font-size:26px;color:var(--gold-lt)}.proc[data-astro-cid-d5el6o5c] h3[data-astro-cid-d5el6o5c]{color:#fff;font-size:18px;font-weight:600;margin:12px 0 8px}.proc[data-astro-cid-d5el6o5c] p[data-astro-cid-d5el6o5c]{color:#9fb0c0;font-size:14px;line-height:1.5;margin:0}@media (max-width:640px){.proc-track[data-astro-cid-d5el6o5c]{grid-template-columns:1fr;gap:26px}.proc[data-astro-cid-d5el6o5c]{border-left:0;padding-left:0}}.id-cta[data-astro-cid-d5el6o5c]{background:var(--panel);border-top:1px solid var(--line);margin-top:clamp(40px,5vw,72px);padding:clamp(56px,7vw,96px) 0;text-align:center}.id-cta[data-astro-cid-d5el6o5c] h2[data-astro-cid-d5el6o5c]{font-size:clamp(28px,3.4vw,44px);font-weight:400}.id-cta[data-astro-cid-d5el6o5c] p[data-astro-cid-d5el6o5c]{color:var(--soft);font-size:18px;max-width:56ch;margin:18px auto 30px}
